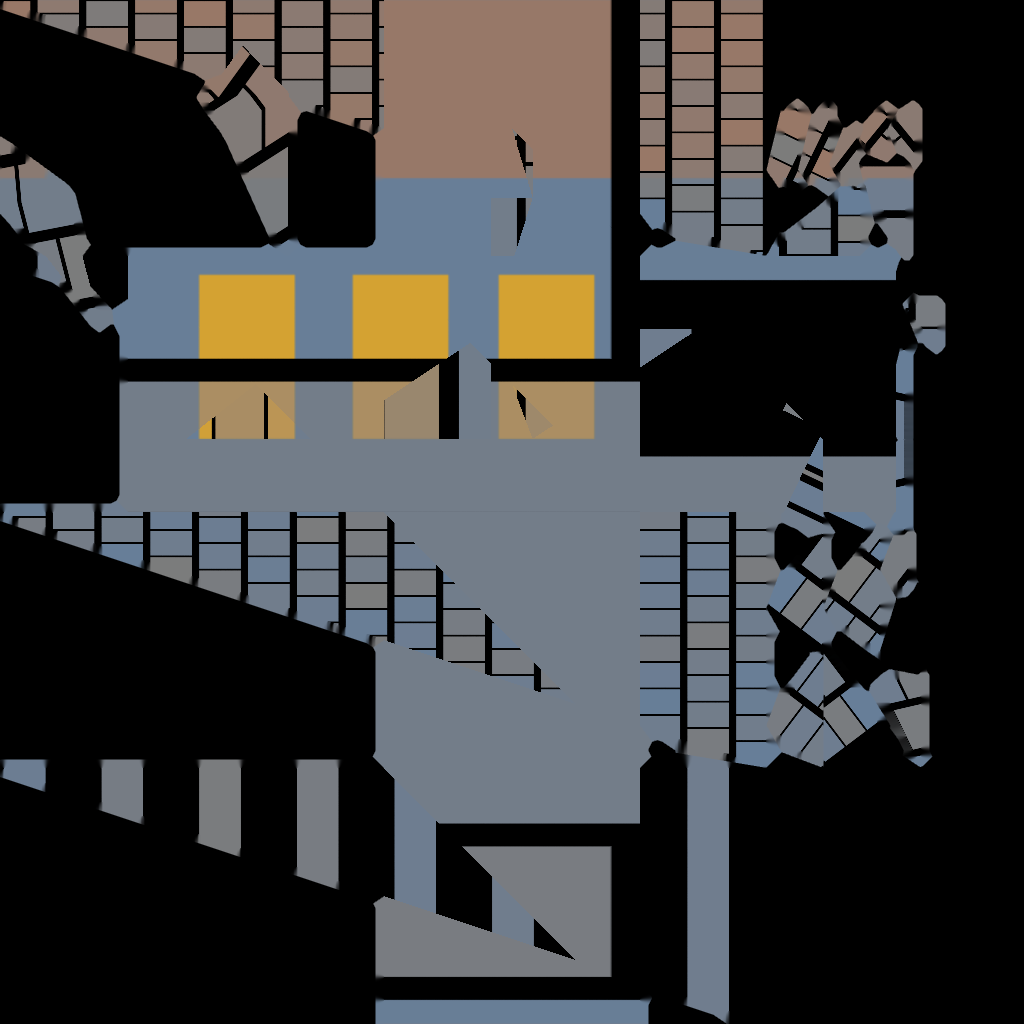
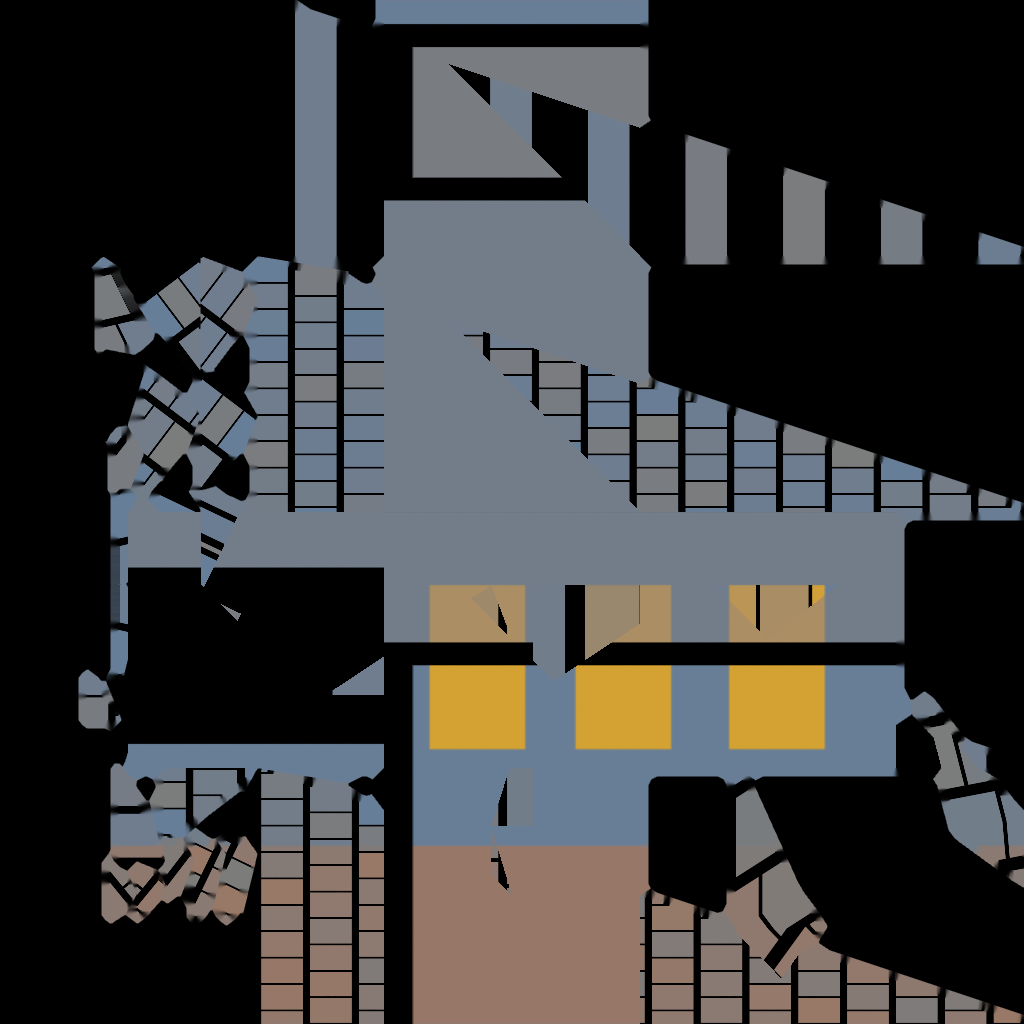
building

diff --git a/src/examples/city.cpp b/src/examples/city.cpp
@@ -19,6 +19,24 @@ void CityMapInit()
 	gameMapEntity->persons = (EntityHandle*)malloc(gameMapEntity->personCapacity * gameMapEntity->personSizeInBytes);
 	memset(gameMapEntity->persons, 0, sizeof(EntityHandle) * gameMapEntity->personCapacity);
 	
+	// INIT ROADS
+	gameMapEntity->roadCapacity = 8000;
+	gameMapEntity->roadCount = 0;
+	gameMapEntity->roadSizeInBytes = sizeof(EntityHandle);
+	gameMapEntity->roads = (EntityHandle*)malloc(gameMapEntity->roadCapacity * gameMapEntity->roadSizeInBytes);
+	memset(gameMapEntity->roads, 0, sizeof(EntityHandle) * gameMapEntity->roadCapacity);
+	
+
+	// INIT BUILDINGS
+	gameMapEntity->buildingCapacity = 8000;
+	gameMapEntity->buildingCount = 0;
+	gameMapEntity->buildingSizeInBytes = sizeof(EntityHandle);
+	gameMapEntity->buildings = (EntityHandle*)malloc(gameMapEntity->buildingCapacity * gameMapEntity->buildingSizeInBytes);
+	memset(gameMapEntity->buildings, 0, sizeof(EntityHandle) * gameMapEntity->buildingCapacity);
+
+
+
+	
 	/*gameMapEntity->handle = gameMapHandle;
 	gameMapEntity->buildingCapacity = 1000;
 	gameMapEntity->buildingCount = 0;
@@ -76,6 +94,10 @@ void CityMapTileInit(vec2 tileGridSize, vec2 tileSize)
 void CityMapLogic()
 {
 
+	EntityTypeBuffer* gameMapBuffer = &Data->em.buffers[GameMap_Type];
+	GameMap* gameMapEntitiesInBuffer = (GameMap*)gameMapBuffer->entities;
+
+	GameMap* gameMapEntity = &gameMapEntitiesInBuffer[0];
 
 
 
@@ -94,6 +116,10 @@ void CityMapLogic()
 		EntityTypeBuffer* tileArrowBuffer = &Data->em.buffers[TileArrow_Type];
 		TileArrow* tileArrowEntity = (TileArrow*)tileArrowBuffer->entities;
 
+		
+
+		// add to map
+
 		TileArrow* arrowEntity = &tileArrowEntity[0];
 
 		Tile* tileEntity = (Tile*)GetEntity(&Data->em, arrowEntity->tileHandle);
@@ -106,12 +132,21 @@ void CityMapLogic()
 	{	// get current tile arrow
 		EntityTypeBuffer* tileArrowBuffer = &Data->em.buffers[TileArrow_Type];
 		TileArrow* tileArrowEntity = (TileArrow*)tileArrowBuffer->entities;
+   		
+		EntityHandle buildingHandle = AddEntity(&Data->em, Building_Type);
+		Building* buildingEntity = (Building*)GetEntity(&Data->em, buildingHandle);
+		buildingEntity->handle = buildingHandle;
+		buildingEntity->tileHandle = tileArrowEntity->handle;
+		buildingEntity->buildingType = BuildingType_Commercial;
+
+		gameMapEntity->buildings[gameMapEntity->buildingCount] = buildingHandle;
+		gameMapEntity->buildingCount++;
 
 		TileArrow* arrowEntity = &tileArrowEntity[0];
 
 		Tile* tileEntity = (Tile*)GetEntity(&Data->em, arrowEntity->tileHandle);
-
-		tileEntity->tileType = TileType_Commercial;
+		tileEntity->entityOnTileHandle = buildingHandle;
+		tileEntity->tileType = TileType_CommercialBuilding;
 
 	}
 	if (InputPressed(Keyboard, Input_P))
@@ -171,6 +206,7 @@ void CityMapRender()
 		Tile* tileEntity = (Tile*)GetEntity(&Data->em, gameMapEntity->tiles[i]);
 		//vec3 position = V3(tileEntity->position.x, tileEntity->position.y, tileEntity->position.z -10.0f);
 
+
 		//tileEntity->angle_x += angle_xMod;
 
 		//tileEntity->rotation = AxisAngle(V3(1, 0, 0), tileEntity->angle_x);
@@ -183,7 +219,7 @@ void CityMapRender()
 				RenderOBJModel(&Game->modelMesh, tileEntity->position, V3(1.0f, 1.0f, 1.0f), color, tileEntity->rotation, &Data->sprites.road_uv);
 				break;
 			}
-			case TileType_Commercial:
+			case TileType_CommercialBuilding:
 			{
 				RenderOBJModel(&Game->bldMesh, tileEntity->position, V3(1.0f, 1.0f, 1.0f), color, tileEntity->rotation, &Data->sprites.bld2);
 				break;

diff --git a/src/examples/structs.cpp b/src/examples/structs.cpp
@@ -25,6 +25,7 @@ enum EntityType
 	TileArrow_Type,
 
 	Road_Type,
+	Building_Type,
 	Person_Type,
 
 	EntityType_Count,
@@ -205,6 +206,8 @@ enum CityGenState_Type
 
 };
 
+
+
 enum TileType
 {
 	TileType_Grass,
@@ -212,7 +215,7 @@ enum TileType
 	TileType_Water,
 
 	TileType_Road,
-	TileType_Commercial,
+	TileType_CommercialBuilding,
 	TileType_Test,
 
 	TileType_Count,
@@ -222,6 +225,7 @@ enum TileType
 struct Tile
 {
 	EntityHandle handle;
+	EntityHandle entityOnTileHandle;
 
 	quaternion rotation;
 	real32 angle_x;
@@ -270,13 +274,24 @@ struct MapEntity
 	vec3 position;
 };
 
+enum BuildingType
+{
+	BuildingType_Commercial,
+};
 
 
 struct Building : MapEntity
 {
+	EntityHandle handle;
 	LandUse_Type landUseType;
 
+	EntityHandle tileHandle;
+	BuildingType buildingType;
 
+	EntityHandle *persons;
+	int32 personCount;
+	int32 personCapacity;
+	int32 personSizeInBytes;
 };
 
 struct Road : MapEntity
@@ -304,14 +319,14 @@ struct GameMap
 	int32 tileCapacity;
 	int32 tileSizeInBytes;
 
-	/*Building* buildings;
+	EntityHandle* buildings;
 	int32 buildingCount;
 	int32 buildingCapacity;
 	int32 buildingSizeInBytes;
-	Road* roads;
+	EntityHandle* roads;
 	int32 roadCount;
 	int32 roadCapacity;
-	int32 roadSizeInBytes;*/
+	int32 roadSizeInBytes;
 	EntityHandle* persons;
 	int32 personCount;
 	int32 personCapacity;

diff --git a/src/examples/PersonsLogicRender.cpp b/src/examples/PersonsLogicRender.cpp
@@ -1,6 +1,17 @@
 void PersonsInit()
 {
 
+	// INIT PERSONS IN BUILDING
+	EntityTypeBuffer* gameMapBuffer = &Data->em.buffers[GameMap_Type];
+	GameMap* gameMapEntitiesInBuffer = (GameMap*)gameMapBuffer->entities;
+
+	GameMap* gameMapEntity = &gameMapEntitiesInBuffer[0];
+
+	for (int i = 0; i < gameMapEntity->buildingCount; i++)
+	{
+		Building* tileEntity = (Tile*)GetEntity(&Data->em, tileHandle);
+
+	}
 }
 
 
@@ -9,11 +20,17 @@ void PersonsLogic()
 {
 
 	// check to see if there are buildings
+
+
 	// check capacity of buildings
 	
 
 
 	// if above conditions->add personEntity
+
+
+
+	// add person to specific building
 
 
 }

diff --git a/src/examples/KeyboardLogicRender.cpp b/src/examples/KeyboardLogicRender.cpp
@@ -63,7 +63,7 @@ void TileArrowRender()
 	EntityTypeBuffer* tileArrowBuffer = &Data->em.buffers[TileArrow_Type];
 	TileArrow* tileArrowEntity = (TileArrow*)tileArrowBuffer->entities;
 	TileArrow* arrowEntity = &tileArrowEntity[0];
-	//DrawTextScreenPixel(&Game->monoFont, V2(60, 60), 10.0f, RGB(1.0f, 1.0f, 1.0f), "o.x: %.10f", arrowEntity->position.x);
+	DrawTextScreenPixel(&Game->monoFont, V2(60, 60), 10.0f, RGB(1.0f, 1.0f, 1.0f), "o.x: %.10f", arrowEntity->position.x);
 
 	RenderOBJModel(&Game->modelMesh, arrowEntity->position, V3(1.0f, 1.0f, 1.0f), V4(0), arrowEntity->rotation, &Data->sprites.tile3_mouse);
 

diff --git a/src/examples/EntityManager.cpp b/src/examples/EntityManager.cpp
@@ -162,4 +162,10 @@ void InitializeEntityBuffers()
 	personBuffer->entities = (Person*)malloc(personBuffer->capacity * personBuffer->sizeInBytes);
 	memset(personBuffer->entities, 0, sizeof(Person) * personBuffer->capacity);
 
+	EntityTypeBuffer* buildingBuffer = &Data->em.buffers[Building_Type];
+	buildingBuffer->capacity = 8000;
+	buildingBuffer->sizeInBytes = sizeof(Building);
+	buildingBuffer->count = 0;
+	buildingBuffer->entities = (Building*)malloc(buildingBuffer->capacity * buildingBuffer->sizeInBytes);
+	memset(buildingBuffer->entities, 0, sizeof(Building) * buildingBuffer->capacity);
 }

diff --git a/src/examples/BuildingLogicRender.cpp b/src/examples/BuildingLogicRender.cpp
@@ -1,0 +1,16 @@
+
+
+
+void BuildingInit(Building* buildingEntity)
+{
+    //Building* buildingEntity = (Building*)GetEntity(&Data->em, gameMapEntity->buildings[i]);
+    // INIT PERSONS IN BUILDING
+
+   
+	buildingEntity->personCapacity = 50;
+	buildingEntity->personCount = 0;
+	buildingEntity->personSizeInBytes = sizeof(EntityHandle);
+	buildingEntity->persons = (EntityHandle*)malloc(buildingEntity->personCapacity * buildingEntity->personSizeInBytes);
+	memset(buildingEntity->persons, 0, sizeof(EntityHandle) * buildingEntity->personCapacity);
+	
+}

diff --git a/src/examples/ParseOBJ.cpp b/src/examples/ParseOBJ.cpp
@@ -479,7 +479,7 @@ void RenderOBJModel(Mesh* mesh, vec3 pos, vec3 scale, vec4 color, quaternion rot
     int texcoord = glGetAttribLocation(shader->programID, "in_texcoord");
     glEnableVertexAttribArray(texcoord);
     glVertexAttribPointer(texcoord, 2, GL_FLOAT, GL_FALSE, 0, (void*)(((sizeof(vec3) + sizeof(vec3)) * mesh->vertCount)));
-
+    stbi_set_flip_vertically_on_load(true);
     glDrawElements(GL_TRIANGLES, mesh->indexCount, GL_UNSIGNED_INT, (GLvoid*)0);
 
     glDisableVertexAttribArray(vert);

diff --git a/src/examples/LoadSprites.cpp b/src/examples/LoadSprites.cpp
@@ -6,6 +6,6 @@ void LoadSprites() {
 	LoadSprite(&Data->sprites.tile3, "data/uv.png");
 	LoadSprite(&Data->sprites.tile3_mouse, "data/uv_mouse.png");
 	LoadSprite(&Data->sprites.road_uv, "data/road_uv.png");
-	LoadSprite(&Data->sprites.bld2, "data/bld2.png");
+	LoadSprite(&Data->sprites.bld2, "data/bake1.png");
 	LoadSprite(&Data->sprites.pop_sprite, "data/pop_sprite.png");
 }

diff --git a/src/examples/CityStateLogic.cpp b/src/examples/CityStateLogic.cpp
@@ -35,6 +35,6 @@ void CityStateLogic()
 void CityStateRender()
 {
 	// display no of peoples
-	//DrawTextScreenPixel(&Game->monoFont, V2(60,100), 10.0f, RGB(1.0f, 1.0f, 1.0f), "Persons: %d", 1);
+	DrawTextScreenPixel(&Game->monoFont, V2(60,100), 10.0f, RGB(1.0f, 1.0f, 1.0f), "Persons: %d", 1);
 	DrawSpriteScreen(V2(1, 1), V2(1, 1), 0, &Data->sprites.pop_sprite);
 }

diff --git a/src/examples/my_map.cpp b/src/examples/my_map.cpp
@@ -33,6 +33,7 @@ MyData* Data = {};
 #include "geoTools.cpp"
 #include "EntityManager.cpp"
 #include "LoadSprites.cpp"
+#include "BuildingLogicRender.cpp"
 
 #include "ParseOBJ.cpp"
 #include "Voronoi.cpp"

diff --git a/src/game.h b/src/game.h
@@ -115,6 +115,7 @@ struct GameMemory {
     Mesh quadBottomLeft;
 
     Mesh modelMesh;
+    
     Mesh testMesh;
 
     Mesh bldMesh;
